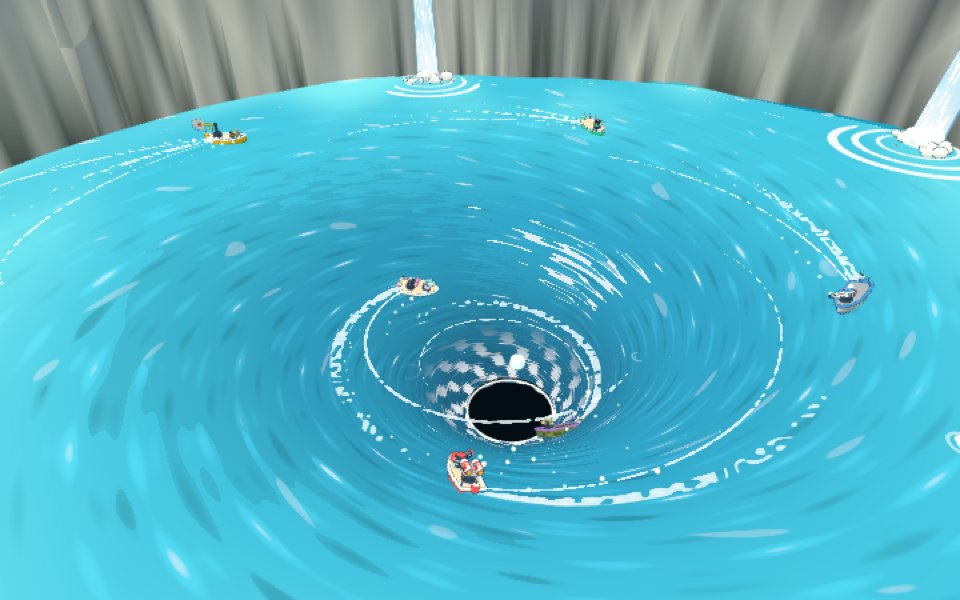
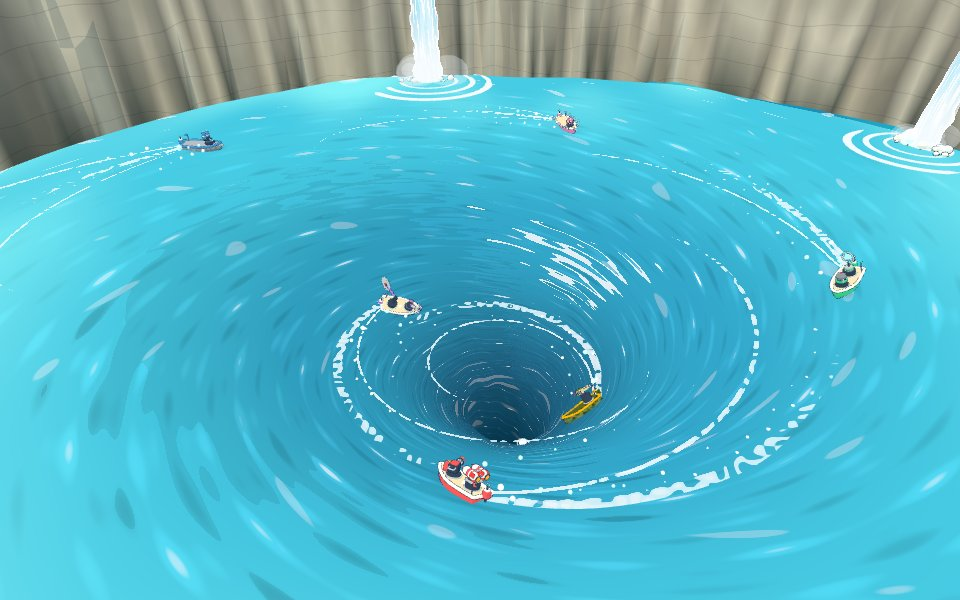
Let the whirlpool water spiral down into a throat that fades to darkness, sink the tunnel stream under the boat, and give the cave mouth a mossy stone lip for its vines

diff --git a/src/whirlpool.js b/src/whirlpool.js
@@ -4,6 +4,7 @@ import { BASE_SPEED } from './race/shared.js';
 
 export const HOLE_Y = 26;
 const DEPTH = 44;
+const THROAT = 70;
 const DRAIN = 9;
 const STEEP = 2.4;
 const DRAIN_TIME = 0.7;
@@ -217,14 +218,12 @@ const FUNNEL_FRAG = /* glsl */ `
     color = mix(color, foam, smoothstep(0.8, 0.86, rip) * 0.45 * (1.0 - flow * 0.6));
     color = mix(color, foam, smoothstep(0.9, 0.96, h) * 0.7 * (1.0 - flow));
 
-    float churn = sin(theta * 11.0 - uTime * 8.0 + r * 1.4) * 0.5 + sin(theta * 17.0 - uTime * 11.0 - r * 0.9 + 2.0) * 0.3 + st * 0.4;
-    float throat = 1.0 - smoothstep(uDrain + 1.0, uDrain + 10.0, r);
-    color = mix(color, foam, throat * smoothstep(0.05, 0.45, churn) * 0.8);
 
     vec3 view = normalize(cameraPosition - vWorld);
     float glint = pow(max(dot(reflect(-sun, n), view), 0.0), 48.0);
     color = mix(color, foam, step(0.55, glint) * 0.6 * (0.3 + flow));
 
+    color = mix(color, vec3(0.0, 0.03, 0.06), smoothstep(-uDepth * 0.7, -uDepth - 26.0, vDepth));
     gl_FragColor = vec4(color, 1.0);
     #include <colorspace_fragment>
     #include <fog_fragment>
@@ -232,19 +231,27 @@ const FUNNEL_FRAG = /* glsl */ `
 `;
 
 function funnelGeometry(center, radius) {
-  const rings = 72;
   const segs = 180;
   const positions = [];
   const amps = [];
   const indices = [];
   const outer = radius + 2;
-  for (let i = 0; i <= rings; i++) {
-    const u = i / rings;
+  const profile = [];
+  for (let i = 0; i < 16; i++) {
+    const u = i / 16;
+    profile.push([1.2 + (DRAIN - 1.2) * Math.sqrt(u), -DEPTH - THROAT * Math.pow(1 - u, 1.6)]);
+  }
+  for (let i = 0; i <= 72; i++) {
+    const u = i / 72;
     const r = DRAIN + (outer - DRAIN) * (u * u * 0.55 + u * 0.45);
+    profile.push([r, funnelLevel(r, outer)]);
+  }
+  const rings = profile.length - 1;
+  for (const [r, y] of profile) {
     for (let j = 0; j <= segs; j++) {
       const a = (j / segs) * Math.PI * 2;
-      positions.push(center.x + Math.cos(a) * r, funnelLevel(r, outer), center.z + Math.sin(a) * r);
-      amps.push(funnelAmp(r, radius));
+      positions.push(center.x + Math.cos(a) * r, y, center.z + Math.sin(a) * r);
+      amps.push(y < -DEPTH ? 0 : funnelAmp(r, radius));
     }
   }
   for (let i = 0; i < rings; i++) {
@@ -276,7 +283,7 @@ export function flumeStream(site) {
   const path = (spec, t) => {
     if (t <= inside) {
       const p = flume.curve.getPointAt(t / inside);
-      return [p.x, p.y - water + 0.05, p.z];
+      return [p.x, p.y - water - 0.65, p.z];
     }
     const time = ((t - inside) / (1 - inside)) * fly;
     const d = speed * time;
@@ -291,6 +298,7 @@ export function flumeStream(site) {
     width: 5,
     rows: 110,
     shade: (t) => (t < inside * 0.97 ? 0.3 : 1),
+    bulge: (t) => (t < inside ? 0 : 0.35),
     path,
   };
 }
@@ -313,22 +321,6 @@ export class Whirlpool {
       fog: true,
     });
     this.group.add(new THREE.Mesh(funnelGeometry(center, radius), this.material));
-    const dark = new THREE.MeshBasicMaterial({ color: 0x050d14, side: THREE.BackSide });
-    const shaft = new THREE.Mesh(new THREE.CylinderGeometry(DRAIN + 0.3, DRAIN + 0.3, 90, 32, 1, true), dark);
-    shaft.position.set(center.x, -DEPTH - 44, center.z);
-    this.group.add(shaft);
-    const floor = new THREE.Mesh(new THREE.CircleGeometry(DRAIN + 0.4, 32).rotateX(-Math.PI / 2), new THREE.MeshBasicMaterial({ color: 0x050d14 }));
-    floor.position.set(center.x, -DEPTH - 1.5, center.z);
-    this.group.add(floor);
-    this.throat = new THREE.Group();
-    this.throat.position.set(center.x, -DEPTH + 0.3, center.z);
-    for (let k = 0; k < 3; k++) {
-      const ring = new THREE.Mesh(new THREE.TorusGeometry(DRAIN + 0.4 + k * 1.6, 0.55 - k * 0.12, 6, 64).rotateX(Math.PI / 2), toon(k ? 0xd8f4fb : 0xf4fbff));
-      ring.position.y = k * 0.9;
-      ring.scale.y = 0.6;
-      this.throat.add(ring);
-    }
-    this.group.add(this.throat);
     const tube = new THREE.Mesh(new THREE.TubeGeometry(flume.curve, 120, flume.radius, 14, false), new THREE.MeshBasicMaterial({ color: 0x0b141c, side: THREE.BackSide }));
     this.group.add(tube);
     const mouth = new THREE.Group();
@@ -359,7 +351,6 @@ export class Whirlpool {
 
   animate(t) {
     this.material.uniforms.uTime.value = t;
-    this.throat.rotation.y = t * 3;
   }
 
   darkness(b) {

diff --git a/src/world.js b/src/world.js
@@ -1458,18 +1458,22 @@ function addCaveArch(batch, site) {
     batch.add('rockland', paintPillar(g, 1e9));
     if (!mouth) continue;
     const { fx, fz } = frame(k);
+    const lip = new THREE.CatmullRomCurve3(inner.map(([x, y, z]) => new THREE.Vector3(x - fx * 0.6, y + 0.4, z - fz * 0.6)));
+    const rim = new THREE.TubeGeometry(lip, 48, LIP_RADIUS, 9, false).toNonIndexed();
+    batch.add('rockland', paintPillar(rim, 1e9));
     for (let j = 1; j < ARCH_SIDES; j++) {
       const [x, y, z] = inner[j];
-      const size = 1.3 + rand() * 0.7;
-      fern(batch, x - fx * 0.3, y + 0.3, z - fz * 0.3, rand, 0.8 + rand() * 0.4, { yaw: Math.atan2(-fx, -fz), spread: 2.4, droop: 1.3 });
+      fern(batch, x - fx * 0.8, y + 0.4 + LIP_RADIUS * 0.8, z - fz * 0.8, rand, 0.7 + rand() * 0.35, { yaw: Math.atan2(-fx, -fz), spread: 2.4, droop: 1.3 });
       if (j < 2 || j > ARCH_SIDES - 2) continue;
       for (let n = 0; n < 2; n++) {
         const along = (rand() - 0.5) * 1.6;
-        hangVine(batch, x - fx * 0.4 + fz * along, y - size * 0.4, z - fz * 0.4 - fx * along, -fx, -fz, 2.5 + rand() * 7, rand);
+        hangVine(batch, x - fx * 0.9 + fz * along, y + 0.4, z - fz * 0.9 - fx * along, -fx, -fz, 3 + rand() * 7, rand);
       }
     }
   }
 }
+
+const LIP_RADIUS = 1.5;
 
 function addCrater(batch, site, rand) {
   const { center, radius } = site;
@@ -1945,11 +1949,6 @@ export function createWorld(scene, track, fx) {
       if (whirlpool) {
         whirlpool.animate(t);
         caveWater.update(t);
-        const { center } = site;
-        if (fx && Math.hypot(camera.position.x - center.x, camera.position.z - center.z) < 300 && Math.random() < dt * 3) {
-          const a = Math.random() * Math.PI * 2;
-          fx.mist(center.x + Math.cos(a) * 10, -40, center.z + Math.sin(a) * 10);
-        }
       }
       water.update(t);
       cullChunks(chunks, camera, fog.far);

diff --git a/src/waterfall.js b/src/waterfall.js
@@ -93,7 +93,7 @@ function sheetGeometry(spec, { back = 0, seed = 0, shade = 1 } = {}) {
     const w = width * (0.75 + 0.9 * t);
     for (let c = 0; c <= COLS; c++) {
       const u = c / COLS - 0.5;
-      const bulge = (1 - 4 * u * u) * w * 0.35;
+      const bulge = (1 - 4 * u * u) * w * (spec.bulge ? spec.bulge(t) : 0.35);
       if (spec.path) positions.push(cx + tx * u * w, cy + bulge, cz + tz * u * w);
       else positions.push(cx + tx * u * w + dx * (bulge - back), cy, cz + tz * u * w + dz * (bulge - back));
       flows.push(c / COLS, t, along);
